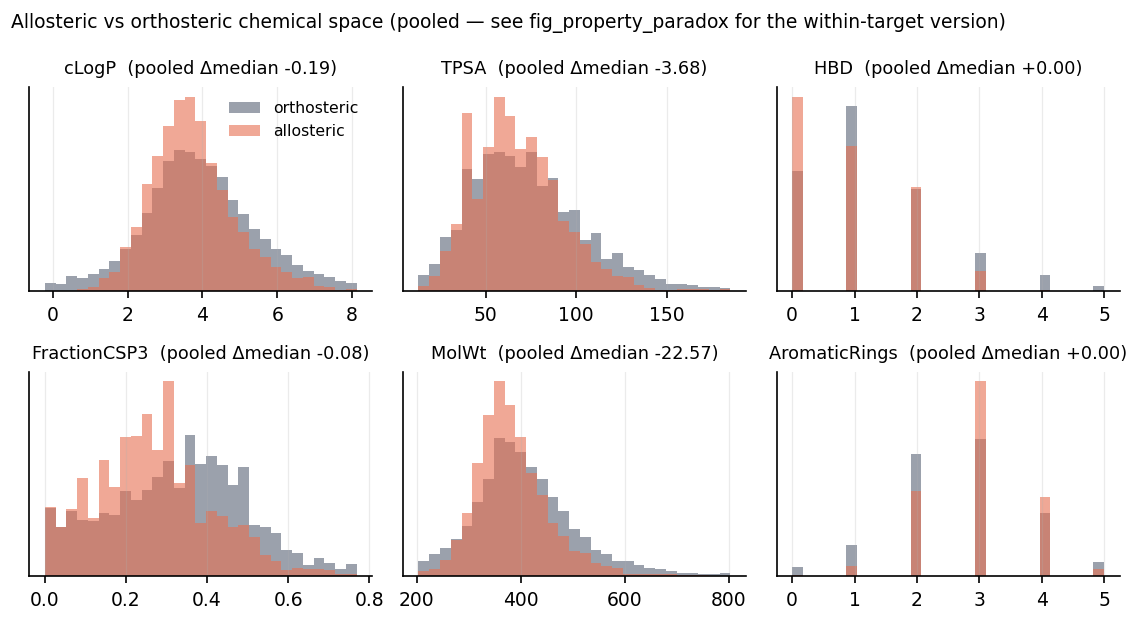
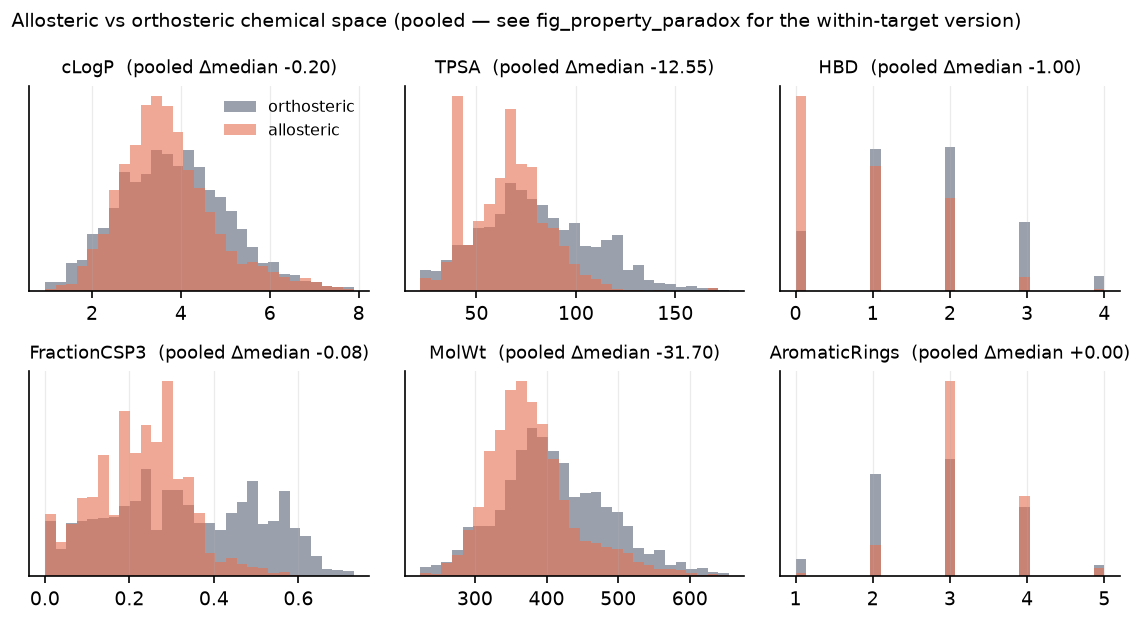
Report property differences as standardised effect sizes
Raw deltas across properties on different scales (BertzCT ~1e2 vs cLogP ~1e0)
could not be compared or plotted together; the cLogP sign flip was invisible
next to BertzCT/MolWt. Dividing by each property's SD makes the comparison
readable and surfaces a second finding: sp3 fraction and aliphatic ring count
are significantly LOWER in allosteric ligands within target, contradicting the
three-dimensionality folklore even though lipophilicity supports it.

diff --git a/allo/plots.py b/allo/plots.py
@@ -122,18 +122,21 @@ def fig_property_paradox(chem: pd.DataFrame, path: Path, top_n: int = 10) -> Non
     Where the two bars point in opposite directions the pooled comparison is
     reporting which targets each class came from, not the binding mode.
     """
+    pooled_col = "pooled_delta_std" if "pooled_delta_std" in chem else "pooled_delta"
+    within_col = "within_target_delta_std" if "within_target_delta_std" in chem else "within_target_delta"
+    lo_col = "within_lo_std" if "within_lo_std" in chem else "within_lo"
+    hi_col = "within_hi_std" if "within_hi_std" in chem else "within_hi"
     sub = chem.head(top_n).iloc[::-1]
     y = np.arange(len(sub))
     h = 0.38
-    fig, ax = plt.subplots(figsize=(6.2, 0.42 * len(sub) + 1.4))
-    ax.barh(y + h / 2, sub["pooled_delta"], height=h, color=SLATE, label="pooled (confounded)")
-    ax.barh(y - h / 2, sub["within_target_delta"], height=h, color=CORAL,
-            label="within-target")
+    fig, ax = plt.subplots(figsize=(6.6, 0.42 * len(sub) + 1.5))
+    ax.barh(y + h / 2, sub[pooled_col], height=h, color=SLATE, label="pooled (confounded)")
+    ax.barh(y - h / 2, sub[within_col], height=h, color=CORAL, label="within-target")
     err = np.vstack([
-        sub["within_target_delta"] - sub["within_lo"],
-        sub["within_hi"] - sub["within_target_delta"],
+        sub[within_col] - sub[lo_col],
+        sub[hi_col] - sub[within_col],
     ])
-    ax.errorbar(sub["within_target_delta"], y - h / 2, xerr=err, fmt="none",
+    ax.errorbar(sub[within_col], y - h / 2, xerr=err, fmt="none",
                 ecolor="#5c2318", elinewidth=1, capsize=2.5)
     ax.axvline(0, color="#333", lw=1)
     ax.set_yticks(y)
@@ -141,9 +144,10 @@ def fig_property_paradox(chem: pd.DataFrame, path: Path, top_n: int = 10) -> Non
         [f"{r.property} *" if r.sign_flip else r.property for r in sub.itertuples()],
         fontsize=8,
     )
-    ax.set_xlabel("median(allosteric) − median(orthosteric)")
-    ax.set_title("Pooled comparisons invert real ones  (* = sign flip)",
-                 loc="left", fontsize=9.5)
+    ax.set_xlabel("standardised Δ:  [median(allosteric) − median(orthosteric)] / SD")
+    ax.set_title("Pooled property comparisons invert the within-target ones\n"
+                 "(* = sign flip; bars in SD units so scales are comparable)",
+                 loc="left", fontsize=9)
     ax.legend(frameon=False, fontsize=8, loc="lower right")
     fig.tight_layout()
     fig.savefig(path)

diff --git a/allo/chemspace.py b/allo/chemspace.py
@@ -57,6 +57,11 @@ def property_deltas(df: pd.DataFrame, cfg: Config, min_per_class: int | None = N
         a = tab.loc[tab["label"] == POS, p]
         o = tab.loc[tab["label"] == NEG, p]
         pooled = float(np.nanmedian(a) - np.nanmedian(o))
+        # Properties live on wildly different scales (BertzCT ~1e2, cLogP ~1e0),
+        # so raw deltas cannot be compared or plotted together. Dividing by the
+        # spread of the property makes every shift a standardised effect size.
+        spread = float(np.nanstd(tab[p].to_numpy(dtype=float)))
+        spread = spread if spread > 1e-12 else np.nan
 
         per_target = []
         for t in usable:
@@ -79,6 +84,11 @@ def property_deltas(df: pd.DataFrame, cfg: Config, min_per_class: int | None = N
             {
                 "property": p,
                 "pooled_delta": pooled,
+                "property_sd": spread,
+                "pooled_delta_std": pooled / spread,
+                "within_target_delta_std": mean_within / spread,
+                "within_lo_std": lo / spread,
+                "within_hi_std": hi / spread,
                 "within_target_delta": mean_within,
                 "within_target_median": float(np.median(per_target)) if per_target.size else np.nan,
                 "within_lo": lo,
@@ -96,5 +106,5 @@ def property_deltas(df: pd.DataFrame, cfg: Config, min_per_class: int | None = N
             }
         )
     return pd.DataFrame(rows).sort_values(
-        "within_target_delta", key=lambda s: -s.abs()
+        "within_target_delta_std", key=lambda s: -s.abs()
     ).reset_index(drop=True)

diff --git a/outputs/RESULTS_strict.md b/outputs/RESULTS_strict.md
@@ -57,6 +57,9 @@ Label tiers:
 The bootstrap CI above resamples compounds *within* each fold, so it measures within-fold sampling noise: **0.723 [0.697–0.748]**. A claim about generalising to a *new target* must instead carry the spread between held-out target groups, which is much wider: per-fold AUCs [0.5537, 0.8557, 0.8482, 0.6871, 0.6712], giving **0.723 [0.564–0.883]** (Student-t across 5 folds). The wider interval is the honest one for the headline claim.
 
 
+*The temporal split is a single chronological holdout, so its `fold SD` is 0 by construction — one fold, not zero variability.*
+
+
 ### Pooling artefact
 
 The target-identity probe is the worked example. Under the target-out split its one-hot features are all zero for a held-out target, so every prediction inside a fold is the same constant and the per-fold AUC is exactly **0.500** — chance, as it must be. Pooling those per-fold constants into one ROC instead reports **0.335**: an ordering invented between folds, not a below-chance model. Every headline number here is a fold-mean.
@@ -68,18 +71,18 @@ Median(allosteric) − median(orthosteric) for each property, computed two ways.
 
 | property       |   pooled Δ | within-target Δ [95% CI]   |   n_targets | flips   |
 |:---------------|-----------:|:---------------------------|------------:|:--------|
-| BertzCT        |     -23.54 | +60.36 [-72.31–+193.04]    |          32 | **yes** |
-| TPSA           |     -12.55 | -4.74 [-12.54–+3.05]       |          32 |         |
-| LabuteASA      |     -17.6  | -3.41 [-16.52–+9.70]       |          32 |         |
-| MolWt          |     -31.7  | -1.79 [-32.82–+29.23]      |          32 |         |
+| FractionCSP3   |      -0.08 | -0.08 [-0.12–-0.04]        |          32 |         |
+| NumSpiroAtoms  |       0    | -0.06 [-0.15–+0.02]        |          32 |         |
 | cLogP          |      -0.2  | +0.65 [-0.05–+1.35]        |          32 | **yes** |
 | HBD            |      -1    | -0.53 [-0.98–-0.09]        |          32 |         |
-| HeavyAtoms     |      -3    | -0.48 [-2.94–+1.97]        |          32 |         |
-| StereoCentres  |       0    | -0.38 [-0.86–+0.11]        |          32 |         |
 | AliphaticRings |       0    | -0.34 [-0.57–-0.11]        |          32 |         |
 | AromaticRings  |       0    | +0.31 [-0.10–+0.73]        |          32 |         |
-| RotB           |      -1    | -0.27 [-1.40–+0.87]        |          32 |         |
+| StereoCentres  |       0    | -0.38 [-0.86–+0.11]        |          32 |         |
+| NumBridgeheads |       0    | -0.12 [-0.30–+0.05]        |          32 |         |
 | RingCount      |       0    | -0.23 [-0.69–+0.22]        |          32 |         |
+| BertzCT        |     -23.54 | +60.36 [-72.31–+193.04]    |          32 | **yes** |
+| TPSA           |     -12.55 | -4.74 [-12.54–+3.05]       |          32 |         |
+| RotB           |      -1    | -0.27 [-1.40–+0.87]        |          32 |         |
 
 ## Applicability domain
 
@@ -96,19 +99,22 @@ Maximum ECFP4 Tanimoto from each test compound to the training set. This is the 
 
 Differences between fold-mean AUCs, bootstrapped within folds on identical resamples for both models.
 
-| split    | question                         | Δ fold ROC-AUC [95% CI]   |   p_two_sided | significant   |
-|:---------|:---------------------------------|:--------------------------|--------------:|:--------------|
-| random   | structure beyond physchem        | +0.022 [+0.019–+0.024]    |         0     | **yes**       |
-| random   | chemistry beyond target identity | +0.045 [+0.041–+0.049]    |         0     | **yes**       |
-| random   | fingerprint beyond physchem      | +0.022 [+0.019–+0.025]    |         0     | **yes**       |
-| scaffold | structure beyond physchem        | +0.061 [+0.055–+0.066]    |         0     | **yes**       |
-| scaffold | chemistry beyond target identity | +0.051 [+0.045–+0.057]    |         0     | **yes**       |
-| scaffold | fingerprint beyond physchem      | +0.061 [+0.055–+0.067]    |         0     | **yes**       |
-| temporal | structure beyond physchem        | +0.087 [+0.061–+0.114]    |         0     | **yes**       |
-| temporal | chemistry beyond target identity | +0.358 [+0.321–+0.399]    |         0     | **yes**       |
-| temporal | fingerprint beyond physchem      | +0.078 [+0.050–+0.110]    |         0     | **yes**       |
-| target   | structure beyond physchem        | +0.100 [+0.077–+0.124]    |         0     | **yes**       |
-| target   | fingerprint beyond physchem      | +0.021 [-0.009–+0.054]    |         0.195 | no            |
+| split    | question                         | Δ fold ROC-AUC [95% CI]   | p        | significant   |
+|:---------|:---------------------------------|:--------------------------|:---------|:--------------|
+| random   | structure beyond physchem        | +0.022 [+0.019–+0.024]    | < 0.0005 | **yes**       |
+| random   | chemistry beyond target identity | +0.045 [+0.041–+0.049]    | < 0.0005 | **yes**       |
+| random   | fingerprint beyond physchem      | +0.022 [+0.019–+0.025]    | < 0.0005 | **yes**       |
+| scaffold | structure beyond physchem        | +0.061 [+0.055–+0.066]    | < 0.0005 | **yes**       |
+| scaffold | chemistry beyond target identity | +0.051 [+0.045–+0.057]    | < 0.0005 | **yes**       |
+| scaffold | fingerprint beyond physchem      | +0.061 [+0.055–+0.067]    | < 0.0005 | **yes**       |
+| temporal | structure beyond physchem        | +0.087 [+0.061–+0.114]    | < 0.0005 | **yes**       |
+| temporal | chemistry beyond target identity | +0.358 [+0.321–+0.399]    | < 0.0005 | **yes**       |
+| temporal | fingerprint beyond physchem      | +0.078 [+0.050–+0.110]    | < 0.0005 | **yes**       |
+| target   | structure beyond physchem        | +0.100 [+0.077–+0.124]    | < 0.0005 | **yes**       |
+| target   | fingerprint beyond physchem      | +0.021 [-0.009–+0.054]    | 0.195    | no            |
+
+*`p` is a bootstrap tail fraction over 2000 resamples; `< 0.0005` means no resample crossed zero, not p = 0.*
+
 
 ## What the model keys on
 

diff --git a/README.md b/README.md
@@ -78,21 +78,28 @@ direction.
 
 ![Pooled vs within-target property differences](outputs/figures/fig_property_paradox.png)
 
-| property | pooled Δ | within-target Δ [95% CI] |
-|---|---|---|
-| cLogP | −0.20 | **+0.65** [−0.05–+1.35] ← sign flip |
-| BertzCT (complexity) | −23.5 | **+60.4** [−72.3–+193.0] ← sign flip |
-| MolWt | −31.7 | −1.8 [−32.8–+29.2] |
-| HBD | −1.0 | **−0.53** [−0.98–−0.09] |
-| aliphatic rings | 0.0 | **−0.34** [−0.57–−0.11] |
+Differences are in SD units so properties on different scales are comparable:
 
-This is a Simpson's paradox: the pooled difference mostly reports *which
-proteins each class came from*. The honest reading is that allosteric ligands in
-this set trend more lipophilic and more complex (folklore direction, though the
-95% interval still spans zero at 32 targets), and have significantly fewer
-H-bond donors and fewer aliphatic rings. **An earlier version of this README
-reported the pooled numbers as evidence against the folklore — that conclusion
-was wrong, and it was wrong in exactly the way this project warns about.**
+| property | pooled Δ (SD) | within-target Δ (SD) [95% CI] | folklore says |
+|---|---|---|---|
+| cLogP | −0.15 | **+0.49** [−0.04–+1.01] ← **sign flip** | more lipophilic ✓ trend |
+| BertzCT (complexity) | −0.09 | **+0.23** [−0.27–+0.73] ← **sign flip** | — |
+| FractionCSP3 | −0.51 | **−0.51** [−0.75–−0.26] | more 3-D ✗ **contradicted** |
+| HBD | −0.87 | **−0.46** [−0.85–−0.08] | less polar ✓ |
+| aliphatic rings | 0.00 | **−0.36** [−0.61–−0.12] | more 3-D ✗ |
+| MolWt | −0.38 | −0.02 [−0.39–+0.35] | — |
+
+This is a Simpson's paradox: the pooled difference largely reports *which
+proteins each class came from*. Read properly, the folklore splits in two.
+Lipophilicity goes the way the literature claims once you compare within a
+target (raw ΔcLogP +0.65 log units), though at 32 targets the interval still
+touches zero. But **three-dimensionality is contradicted**: allosteric ligands
+here have significantly *lower* sp3 fraction and *fewer* aliphatic rings, i.e.
+they are flatter, not more 3-D. Fewer H-bond donors holds up.
+
+**An earlier version of this README reported the pooled numbers as evidence
+against the folklore — that conclusion was wrong, and it was wrong in exactly
+the way this project warns about.**
 
 ## 4. What the model uses
 
